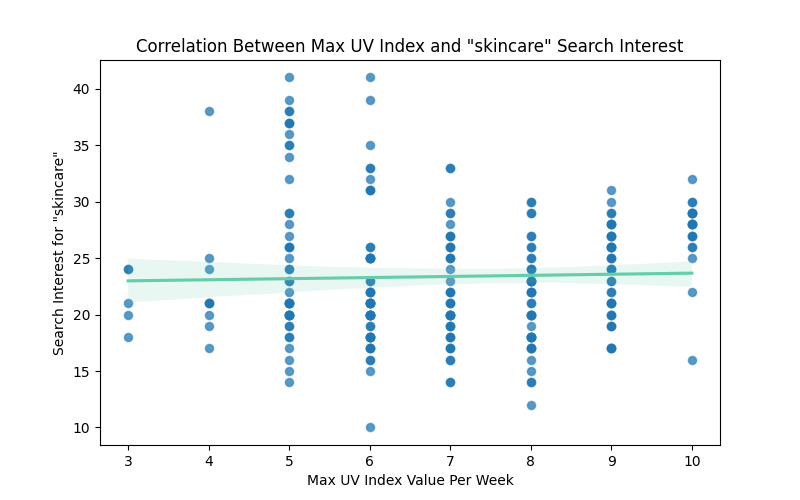
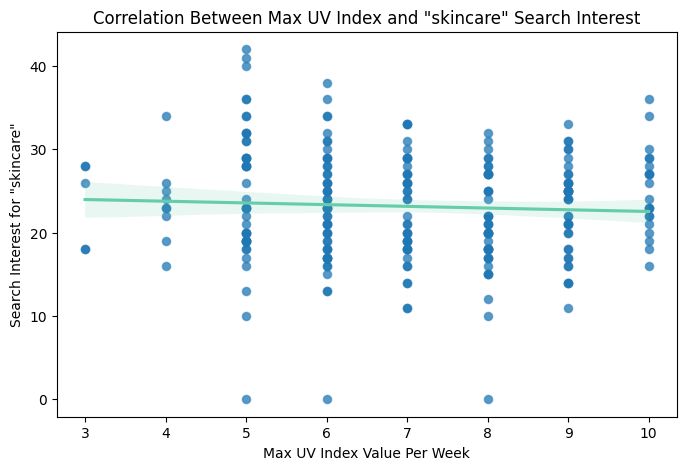
Adjusting line color and file names (to ensure no spaces in file names) for UV and temperature correlation plots.

diff --git a/analytics/plot-correlation/plot_search_vs_uv.py b/analytics/plot-correlation/plot_search_vs_uv.py
@@ -1,33 +1,39 @@
-# Creating plots comparing the patterns for different search terms with maximum UV index values at that time:
+# Create plots comparing search term interest with maximum UV index values
 
+# Import libraries
 import pandas as pd
 import matplotlib.pyplot as plt
 import seaborn as sns
 
-# Load the processed data
+# Load and read in the processed data
 df = pd.read_csv("/Users/gracebeste/documents/trends-sunscreen-analysis/analytics/data/weather_trends_cleaned.csv", parse_dates=["week_start"])
 
-# Creating a function plot_search_vs_temp() to loop through the different search terms and create a temp comparison plot for each term:
-def plot_search_vs_temp(search_term):
+# Create a function plot_search_vs_uv() to loop through the different search terms and create a UV comparison plot for each term:
+def plot_search_vs_uv(search_term):
     """Create scatterplot of maximum UV index values vs. search interest for a given search term."""
+
+    # Error handling to ensure plot only graphs search term columns    
     if search_term not in df.columns:
         print(f"Warning: Column '{search_term}' not found in dataset.")
         return
 
+    # Create plot
     plt.figure(figsize=(8, 5))
     sns.scatterplot(x='uvindex', y=search_term, data=df, alpha=0.5)
-    sns.regplot(x=df["uvindex"], y=df[search_term], scatter_kws={"alpha": 0.5}, line_kws={"color": "mediumaquamarine"})
+    sns.regplot(x=df["uvindex"], y=df[search_term], scatter_kws={"alpha": 0.5}, line_kws={"color": "darkkhaki"})
 
+    # Adjust plot titles
     plt.title(f'Correlation Between Max UV Index and "{search_term}" Search Interest')
     plt.xlabel('Max UV Index Value Per Week')
     plt.ylabel(f'Search Interest for "{search_term}"')
 
-    plt.savefig(f"figures/plot-correlation/uv_vs_{search_term}.png")
+    # Save the file and ensure there are no spaces in the file name
+    filename = f"figures/plot-correlation/uv_vs_{term.replace(' ', '_')}.png"
+    plt.savefig(filename, bbox_inches='tight')
     plt.show()
     plt.close()
 
-# Generate plots for different search terms
+# Loop through search terms to generate different plots
 search_terms = ["sunscreen", "SPF", "UV protection", "skincare"]
-
 for term in search_terms:
-    plot_search_vs_temp(term)
+    plot_search_vs_uv(term)

diff --git a/analytics/plot-correlation/plot_search_vs_temp.py b/analytics/plot-correlation/plot_search_vs_temp.py
@@ -1,33 +1,39 @@
-# Creating plots comparing the patterns for different search terms with maximum temps at that time:
+# Create plots comparing search term interest with maximum temps
 
+# Import libraries
 import pandas as pd
 import matplotlib.pyplot as plt
 import seaborn as sns
 
-# Load the processed data
+# Load and read in the processed data
 df = pd.read_csv("/Users/gracebeste/documents/trends-sunscreen-analysis/analytics/data/weather_trends_cleaned.csv", parse_dates=["week_start"])
 
-# Creating a function plot_search_vs_temp() to loop through the different search terms and create a temp comparison plot for each term:
+# Create a function plot_search_vs_temp() to loop through the different search terms and create a temp comparison plot for each term:
 def plot_search_vs_temp(search_term):
     """Create scatterplot of maximum temperatures vs. search interest for a given search term."""
+
+    # Error handling to ensure plot only graphs search term columns
     if search_term not in df.columns:
         print(f"Warning: Column '{search_term}' not found in dataset.")
         return
 
+    # Create plot
     plt.figure(figsize=(8, 5))
     sns.scatterplot(x='tempmax', y=search_term, data=df, alpha=0.5)
     sns.regplot(x=df["tempmax"], y=df[search_term], scatter_kws={"alpha": 0.5}, line_kws={"color": "mediumaquamarine"})
 
+    # Adjust plot titles
     plt.title(f'Correlation Between Temperature and "{search_term}" Search Interest')
     plt.xlabel('Max Temperature Per Week (°F)')
     plt.ylabel(f'Search Interest for "{search_term}"')
 
-    plt.savefig(f"figures/plot-correlation/temp_vs_{search_term}.png")
+    # Save the file and ensure there are no spaces in the file name
+    filename = f"figures/plot-correlation/temp_vs_{term.replace(' ', '_')}.png"
+    plt.savefig(filename, bbox_inches='tight')
     plt.show()
     plt.close()
 
-# Generate plots for different search terms
+# Loop through search terms to generate different plots
 search_terms = ["sunscreen", "SPF", "UV protection", "skincare"]
-
 for term in search_terms:
     plot_search_vs_temp(term)

diff --git a/analytics/plot-time-series/plot_max_temps.py b/analytics/plot-time-series/plot_max_temps.py
@@ -1,11 +1,14 @@
-# Creating a plot with maximum weekly temperatures from 2020-2024:
+# Create a plot with maximum weekly temperatures from 2020-2024
 
+# Import libraries
 import pandas as pd
 import matplotlib.pyplot as plt
 import matplotlib.dates as mdates
 
-# Load dataset
+# Load and read in dataset
 df = pd.read_csv("/Users/gracebeste/documents/trends-sunscreen-analysis/analytics/data/weather_trends_cleaned.csv", parse_dates=["week_start"])
+
+# Set the "week_start" column as the index
 df.set_index('week_start', inplace=True)
 
 # Extract year and month for color-coding
@@ -35,10 +38,10 @@ for label, tick_date in zip(ax.get_xticklabels(), tick_dates):
     label.set_color(year_color_map.get(year, 'black'))  # Assign color based on year
 
 # Adjust label visibility
-plt.xticks(rotation=45, fontsize=8)  # Keep horizontal for clarity
-plt.subplots_adjust(bottom=0.15)  # Avoid cutoff issues for x-axis title
+plt.xticks(rotation=45, fontsize=8)
+plt.subplots_adjust(bottom=0.15)  # Avoid cutoff for x-axis title
 
-# Label axes, title, and grid
+# Label axes, title, and background of plot
 plt.xlabel('Month', fontsize=12)
 plt.ylabel('Temperature (°F)', fontsize=12)
 plt.title('Weekly Maximum Temperatures (2020-2024)', fontsize=14)

diff --git a/analytics/plot-time-series/plot_max_uv.py b/analytics/plot-time-series/plot_max_uv.py
@@ -1,10 +1,11 @@
-# Creating a plot with maximum weekly UV index values from 2020-2024:
+# Create a plot with maximum weekly UV index values from 2020-2024:
 
+# Import libraries
 import pandas as pd
 import matplotlib.pyplot as plt
 import matplotlib.dates as mdates
 
-# Reading in dataset:
+# Read in dataset:
 df = pd.read_csv("/Users/gracebeste/documents/trends-sunscreen-analysis/analytics/data/weather_trends_cleaned.csv", parse_dates=["week_start"])
 
 # Set 'week_start' as the index
@@ -40,7 +41,7 @@ for label, tick_date in zip(ax.get_xticklabels(), tick_dates):
 plt.xticks(rotation=45, fontsize=8)
 plt.subplots_adjust(bottom=0.15)  # Avoid cutoff issues for x-axis title
 
-# Labeling axes, creating title, and formatting background of plot
+# Label axes, create title, and format the background of the plot
 plt.xlabel('Month', fontsize=12)  # The labels are the months for visualization purposes, even though the data is at a weekly level
 plt.ylabel('UV Index Values', fontsize=12)
 plt.title('Weekly Maximum UV Index Values (2020-2024)', fontsize=14)

diff --git a/analytics/plot-time-series/plot_search_over_time.py b/analytics/plot-time-series/plot_search_over_time.py
@@ -1,10 +1,11 @@
-# Plot search interest trends over time:
+# Plot search interest trends over time (2020-2024)
 
+# Import libraries
 import pandas as pd
 import matplotlib.pyplot as plt
 import matplotlib.dates as mdates
 
-# Load cleaned dataset
+# Load and read in cleaned dataset
 df = pd.read_csv("/Users/gracebeste/documents/trends-sunscreen-analysis/analytics/data/weather_trends_cleaned.csv", parse_dates=["week_start"])
 
 # Set 'week_start' as the index
